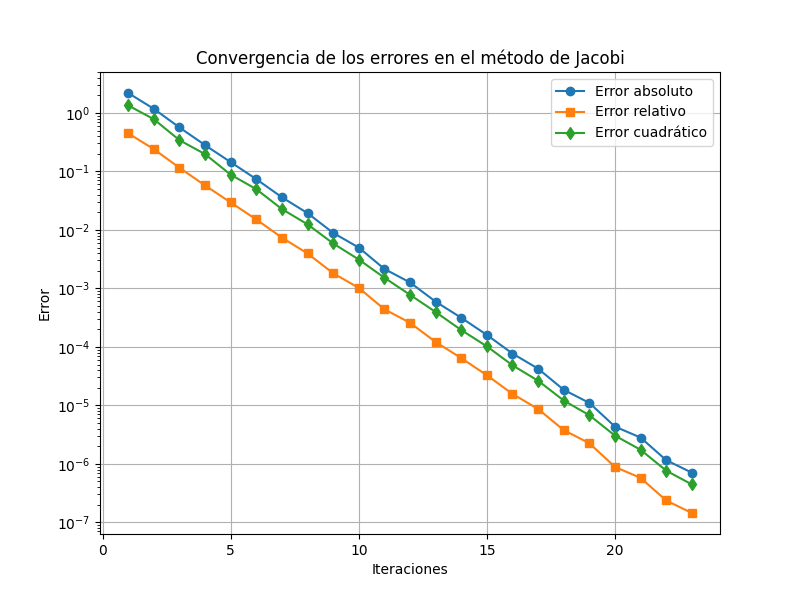
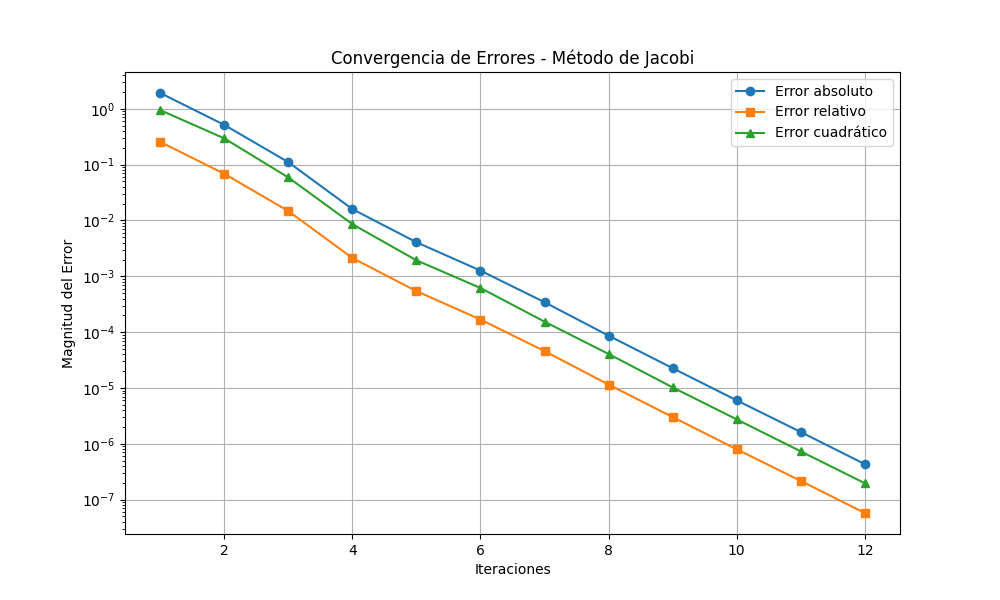
update

diff --git a/Unidad3/Actividad3/32-3-jacoby.py b/Unidad3/Actividad3/32-3-jacoby.py
@@ -1,28 +1,20 @@
-#   Codigo que implementa el esquema numerico 
-#   del metodo iterativo de Jacobi para
-#   resolver sistemas de ecuaciones
-#
-#           Autor:
-#   Dr. Ivan de Jesus May-Cen
-#   imaycen@hotmail.com
-#   Version 1.0 : 26/02/2025
-#
-
 import numpy as np
 import matplotlib.pyplot as plt
 
-# Definir el sistema de ecuaciones del ejemplo
-A = np.array([[4, -1, 1],
-              [1, 3, -1],
-              [-2, 1, 5]])
+# Definir el sistema de ecuaciones actualizado (6x6)
+A = np.array([
+    [12, -2, 1, 0, 0, 0],
+    [-3, 18, -4, 2, 0, 0],
+    [1, -2, 16, -1, 1, 0],
+    [0, 2, -1, 11, -3, 1],
+    [0, 0, -2, 4, 15, -2],
+    [0, 0, 0, 1, -3, 15]
+])
 
-b = np.array([7, -8, 6])
+b = np.array([20, 35, -5, 19, -12, 25])
 
-# Solución exacta para comparar errores
-# Se añade esta linea para determinar
-# una solución exacta para comparar errores
-sol_exacta = np.linalg.solve(A, b) 
-
+# Solución exacta usando numpy.linalg.solve
+sol_exacta = np.linalg.solve(A, b)
 
 # Criterio de paro
 tolerancia = 1e-6
@@ -42,7 +34,7 @@ def jacobi(A, b, tol, max_iter):
             suma = sum(A[i, j] * x[j] for j in range(n) if j != i)
             x_new[i] = (b[i] - suma) / A[i, i]
         
-        # Calcular errores
+        # Calcular errores respecto a la solución exacta
         error_abs = np.linalg.norm(x_new - sol_exacta, ord=1)
         error_rel = np.linalg.norm(x_new - sol_exacta, ord=1) / np.linalg.norm(sol_exacta, ord=1)
         error_cuad = np.linalg.norm(x_new - sol_exacta, ord=2)
@@ -51,34 +43,33 @@ def jacobi(A, b, tol, max_iter):
         errores_rel.append(error_rel)
         errores_cuad.append(error_cuad)
         
-        # Imprimir errores de la iteración
         print(f"Iteración {k+1}: Error absoluto = {error_abs:.6f}, Error relativo = {error_rel:.6f}, Error cuadrático = {error_cuad:.6f}")
         
-        # Criterio de convergencia
+        # Verificar convergencia
         if np.linalg.norm(x_new - x, ord=np.inf) < tol:
             break
         
-        x = x_new
+        x = x_new.copy()
     
     return x, errores_abs, errores_rel, errores_cuad, k+1
 
-# Ejecutar el método de Jacobi
+# Ejecutar el método
 sol_aprox, errores_abs, errores_rel, errores_cuad, iteraciones = jacobi(A, b, tolerancia, max_iter)
 
-# Graficar los errores
-plt.figure(figsize=(8,6))
+# Graficar errores
+plt.figure(figsize=(10, 6))
 plt.plot(range(1, iteraciones+1), errores_abs, label="Error absoluto", marker='o')
 plt.plot(range(1, iteraciones+1), errores_rel, label="Error relativo", marker='s')
-plt.plot(range(1, iteraciones+1), errores_cuad, label="Error cuadrático", marker='d')
+plt.plot(range(1, iteraciones+1), errores_cuad, label="Error cuadrático", marker='^')
 plt.xlabel("Iteraciones")
-plt.ylabel("Error")
+plt.ylabel("Magnitud del Error")
 plt.yscale("log")
-plt.title("Convergencia de los errores en el método de Jacobi")
+plt.title("Convergencia de Errores - Método de Jacobi")
 plt.legend()
-plt.grid()
-plt.savefig("errores_jacobi.png")  # Guardar la figura en archivo PNG
+plt.grid(True)
+plt.savefig("errores_jacobi.png")
 plt.show()
 
-# Mostrar la solución aproximada
-print(f"Solución aproximada: {sol_aprox}")
-print(f"Solución exacta: {sol_exacta}")
+# Resultados
+print("\nSolución aproximada:", sol_aprox)
+print("Solución exacta:", sol_exacta)

diff --git a/Unidad3/Actividad3/32-2-jacoby.py b/Unidad3/Actividad3/32-2-jacoby.py
@@ -1,0 +1,75 @@
+import numpy as np
+import matplotlib.pyplot as plt
+
+# Definir el sistema de ecuaciones actualizado
+A = np.array([
+    [8, 2, -1, 0, 0, 0],
+    [3, 15, -2, 1, 0, 0],
+    [0, -2, 12, 2, -1, 0],
+    [0, 0, -1, 9, -2, 1],
+    [0, 0, -2, 3, 14, 1],
+    [0, 0, 0, 1, -2, 10]
+])
+
+b = np.array([10, 24, -18, 14, -9, 22])
+
+# Solución exacta usando numpy.linalg.solve
+sol_exacta = np.linalg.solve(A, b)
+
+# Criterio de paro
+tolerancia = 1e-6
+max_iter = 100
+
+# Implementación del método de Jacobi
+def jacobi(A, b, tol, max_iter):
+    n = len(A)
+    x = np.zeros(n)  # Aproximación inicial
+    errores_abs = []
+    errores_rel = []
+    errores_cuad = []
+    
+    for k in range(max_iter):
+        x_new = np.zeros(n)
+        for i in range(n):
+            suma = sum(A[i, j] * x[j] for j in range(n) if j != i)
+            x_new[i] = (b[i] - suma) / A[i, i]
+        
+        # Calcular errores respecto a la solución exacta
+        error_abs = np.linalg.norm(x_new - sol_exacta, ord=1)
+        error_rel = np.linalg.norm(x_new - sol_exacta, ord=1) / np.linalg.norm(sol_exacta, ord=1)
+        error_cuad = np.linalg.norm(x_new - sol_exacta, ord=2)
+        
+        errores_abs.append(error_abs)
+        errores_rel.append(error_rel)
+        errores_cuad.append(error_cuad)
+        
+        print(f"Iteración {k+1}: Error absoluto = {error_abs:.6f}, Error relativo = {error_rel:.6f}, Error cuadrático = {error_cuad:.6f}")
+        
+        # Verificar convergencia
+        if np.linalg.norm(x_new - x, ord=np.inf) < tol:
+            break
+        
+        x = x_new.copy()
+    
+    return x, errores_abs, errores_rel, errores_cuad, k+1
+
+# Ejecutar el método
+sol_aprox, errores_abs, errores_rel, errores_cuad, iteraciones = jacobi(A, b, tolerancia, max_iter)
+
+# Graficar errores
+plt.figure(figsize=(10, 6))
+plt.plot(range(1, iteraciones+1), errores_abs, label="Error absoluto", marker='o')
+plt.plot(range(1, iteraciones+1), errores_rel, label="Error relativo", marker='s')
+plt.plot(range(1, iteraciones+1), errores_cuad, label="Error cuadrático", marker='^')
+plt.xlabel("Iteraciones")
+plt.ylabel("Magnitud del Error")
+plt.yscale("log")
+plt.title("Convergencia de Errores - Método de Jacobi")
+plt.legend()
+plt.grid(True)
+plt.savefig("errores_jacobi.png")
+plt.show()
+
+# Resultados
+print("\nSolución aproximada:", sol_aprox)
+print("Solución exacta:", sol_exacta)

diff --git a/Unidad3/Actividad3/33-1-jacobi.py b/Unidad3/Actividad3/33-1-jacobi.py
@@ -1,0 +1,74 @@
+import numpy as np
+import matplotlib.pyplot as plt
+
+# Definir el sistema de ecuaciones actualizado
+A = np.array([
+    [10, -1, 2, 0, 0],
+    [-1, 11, -1, 3, 0],
+    [2, -1, 10, -1, 0],
+    [0, -1, 3, 8, -2],
+    [0, 0, 2, -2, 10]
+])
+
+b = np.array([6, 25, -11, 15, -10])
+
+# Solución exacta usando numpy.linalg.solve
+sol_exacta = np.linalg.solve(A, b)
+
+# Criterio de paro
+tolerancia = 1e-6
+max_iter = 100
+
+# Implementación del método de Jacobi
+def jacobi(A, b, tol, max_iter):
+    n = len(A)
+    x = np.zeros(n)  # Aproximación inicial
+    errores_abs = []
+    errores_rel = []
+    errores_cuad = []
+    
+    for k in range(max_iter):
+        x_new = np.zeros(n)
+        for i in range(n):
+            suma = sum(A[i, j] * x[j] for j in range(n) if j != i)
+            x_new[i] = (b[i] - suma) / A[i, i]
+        
+        # Calcular errores respecto a la solución exacta
+        error_abs = np.linalg.norm(x_new - sol_exacta, ord=1)
+        error_rel = np.linalg.norm(x_new - sol_exacta, ord=1) / np.linalg.norm(sol_exacta, ord=1)
+        error_cuad = np.linalg.norm(x_new - sol_exacta, ord=2)
+        
+        errores_abs.append(error_abs)
+        errores_rel.append(error_rel)
+        errores_cuad.append(error_cuad)
+        
+        print(f"Iteración {k+1}: Error absoluto = {error_abs:.6f}, Error relativo = {error_rel:.6f}, Error cuadrático = {error_cuad:.6f}")
+        
+        # Verificar convergencia
+        if np.linalg.norm(x_new - x, ord=np.inf) < tol:
+            break
+        
+        x = x_new.copy()
+    
+    return x, errores_abs, errores_rel, errores_cuad, k+1
+
+# Ejecutar el método
+sol_aprox, errores_abs, errores_rel, errores_cuad, iteraciones = jacobi(A, b, tolerancia, max_iter)
+
+# Graficar errores
+plt.figure(figsize=(10, 6))
+plt.plot(range(1, iteraciones+1), errores_abs, label="Error absoluto", marker='o')
+plt.plot(range(1, iteraciones+1), errores_rel, label="Error relativo", marker='s')
+plt.plot(range(1, iteraciones+1), errores_cuad, label="Error cuadrático", marker='^')
+plt.xlabel("Iteraciones")
+plt.ylabel("Magnitud del Error")
+plt.yscale("log")
+plt.title("Convergencia de Errores - Método de Jacobi")
+plt.legend()
+plt.grid(True)
+plt.savefig("errores_jacobi.png")
+plt.show()
+
+# Resultados
+print("\nSolución aproximada:", sol_aprox)
+print("Solución exacta:", sol_exacta)
